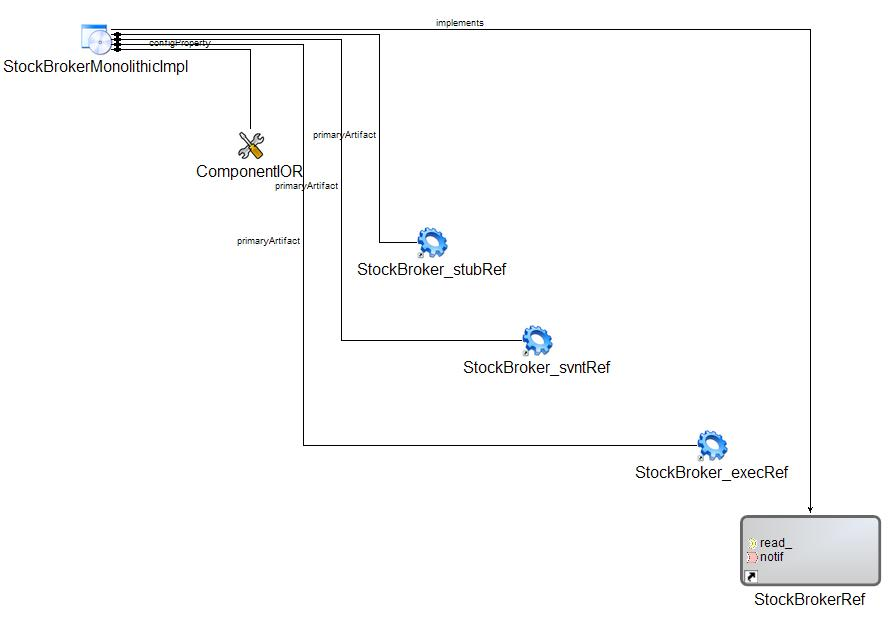
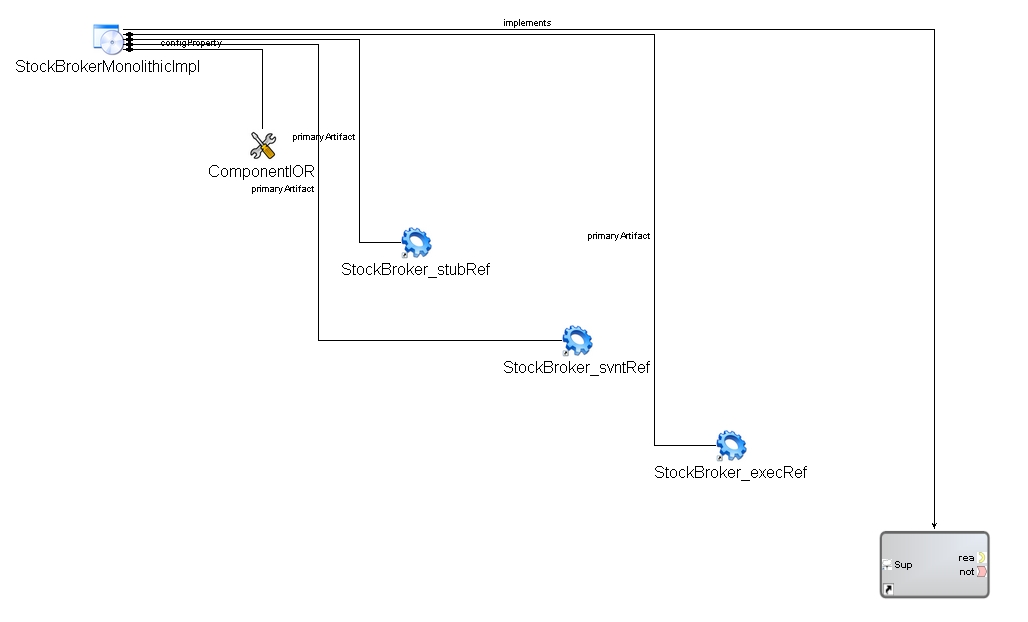
Thu Jun 18 06:48:05 UTC 2009  Marcel Smit  <msmit@remedy.nl>
* docs/tutorials/Quoter/Simple/03.html:

          Updated to meet the current status of CIAO/DAnCE.

        * docs/tutorials/Quoter/Simple/images/fig2.jpg:
        * docs/tutorials/Quoter/Simple/images/fig3.jpg:
        * docs/tutorials/Quoter/Simple/images/fig5.jpg:
        * docs/tutorials/Quoter/Simple/images/fig6.jpg:
        * docs/tutorials/Quoter/Simple/images/fig7.jpg:
        * docs/tutorials/Quoter/Simple/images/fig8.jpg:
        * docs/tutorials/Quoter/Simple/images/fig9.jpg:

          Updated to meet the current status of GME/COSMIC

diff --git a/branches/dds_ports/modules/CIAO/docs/tutorials/Quoter/Simple/03.html b/branches/dds_ports/modules/CIAO/docs/tutorials/Quoter/Simple/03.html
@@ -99,29 +99,29 @@ div.Section1 {
       .NET tools so that <i>idl_to_picml</i> works properly.<br>
       in my machine, VCVARS32.bat is in C:\Program Files\Microsoft Visual Studio .NET
       2003\Vc7\bin
-    <li style='COLOR:black;'> In the same command prompt, change directory to <code> <span style='FONT-SIZE:10pt'>MyQuoter\</span></code>, and type the
+    <li style='COLOR:black;'> In the same command prompt, change directory to <code> <span style='FONT-SIZE:10pt'>Quoter\</span></code>, and type the
       following command:<br>
-      &nbsp;&nbsp; &gt; <kbd> <span style='FONT-SIZE:10pt'> idl_to_picml -x MyQuoter -r .&nbsp;</span></kbd><br>
-      <em>idl_to_picml</em> will parse your IDL files and generated a <code> <span style='FONT-SIZE:10pt'>MyQuoter.xme</span></code> file in the <code> <span style='FONT-SIZE:10pt'>MyQuoter</span></code> directory. Note that if
+      &nbsp;&nbsp; &gt; <kbd> <span style='FONT-SIZE:10pt'> idl_to_picml -x Quoter -r .&nbsp;</span></kbd><br>
+      <em>idl_to_picml</em> will parse your IDL files and generated a <code> <span style='FONT-SIZE:10pt'>Quoter.xme</span></code> file in the <code> <span style='FONT-SIZE:10pt'>Quoter</span></code> directory. Note that if
       -x option is not used, the default xme file name will be <code> <span style='FONT-SIZE:10pt'>PICML_default_xme_file.xme.</span></code><br>
     <LI style="COLOR: black;    "> Start GME, select <strong>File-&gt;Import xml..</strong>, and choose the xme
       file just generated. You should be able to see an imported PICML model similar
       to the one shown in Figure 2. </LI>
   </ol>
-  <p align="center" style='TEXT-ALIGN:center'><span style='COLOR:black'><img border="0" width="960" height="719" id="_x0000_i1027" src="images/fig2.jpg"><br>
+  <p align="center" style='TEXT-ALIGN:center'><span style='COLOR:black'><img border="0" id="_x0000_i1027" src="images/fig2.jpg"><br>
     <br>
     Figure 2</span></p>
   <p><span style='COLOR:black'>&nbsp; In the Browser of the generated model, the <em>PredefinedTypes</em> folder contains a bunch of atomic datatype elements that will be referenced by
     other modeling parts later. You don't have to worry about them for now. The
     models in <em>InterfaceDefinitions</em> folder are the PICML representations
-    of the IDL files you just imported. Double-click to open <em>Broker</em>, it
+    of the IDL files you just imported. Double-click to open <em>StockBroker</em>, it
     will show you a white, document-like entity which represents a
     &lt;&lt;FileRef&gt;&gt; instance and a yellow box-shaped entity representing a
     &lt;&lt;Package&gt;&gt; instance. Their equivalent representations in IDL files
     are "#include" and "module" respectively. Figure 3 gives
     you a clear view of GME representation of all the 3 idl files created. We will
     cover the other folders in the next section.</span></p>
-  <p align="center" style='MARGIN-BOTTOM:12pt;TEXT-ALIGN:center'><span style='COLOR:black'><img border="0" width="218" height="364" id="_x0000_i1028" src="images/fig3.jpg"><br>
+  <p align="center" style='MARGIN-BOTTOM:12pt;TEXT-ALIGN:center'><span style='COLOR:black'><img border="1" id="_x0000_i1028" src="images/fig3.jpg"><br>
     <br>
     Figure 3</span></p>
   <p style='MARGIN-BOTTOM:12pt'><span style='COLOR:black'>Now
@@ -177,8 +177,8 @@ div.Section1 {
   <p><span style='COLOR:black'>This folder contains implementation artifacts
     associated with components. <em>idl_to_picml</em> has created these artifacts
     for us, with their dependency relationships correctly captured. Figure 4 shows
-    the Implementation Artifacts for <em>Broker</em>.</span></p>
-  <p align="center" style='MARGIN-BOTTOM:12pt;TEXT-ALIGN:center'><span style='COLOR:black'><img border="0" width="883" height="528" id="_x0000_i1031" src="images/fig4.jpg"><br>
+    the Implementation Artifacts for <em>StockBroker</em>.</span></p>
+  <p align="center" style='MARGIN-BOTTOM:12pt;TEXT-ALIGN:center'><span style='COLOR:black'><img border="0" id="_x0000_i1031" src="images/fig4.jpg"><br>
     Figure 4.</span></p>
   <div align="center" style='TEXT-ALIGN:center'><a name="1"></a><span style='COLOR:black'>
     <hr size="2" width="100%" align="center">
@@ -188,9 +188,9 @@ div.Section1 {
     of component interfaces. In the Quoter example, we will have two monolithic
     component implementations - named <em>StockDistributorImplementation</em> and <em>StockBrokerImplementation</em> - and an assembly component implementation named <em>StockQuoter</em>, which is
     an assembly of <em>StockDistributorImplementation</em> and <em>StockBrokerImplementaion</em>. <em>idl_to_picml</em> has created the monolithic component implementations for
-    us, as shown in figure 5 for example, but we have to specify the connections
-    between them in order to construct a Quoter system.</span></p>
-  <p align="center" style='TEXT-ALIGN:center'><span style='COLOR:black'><img border="0" width="894" height="617" id="_x0000_i1033" src="images/fig5.jpg"><br>
+    us, as shown in figure 5 for example, but we have to specify the connections between them in order to construct a Quoter system. Therefore we need to create the mentioned
+    StockQuoter component assemby</span></p>
+  <p align="center" style='TEXT-ALIGN:center'><span style='COLOR:black'><img border="0" id="_x0000_i1033" src="images/fig5.jpg"><br>
     Figure 5</span></p>
   <p><span style='COLOR:black'>Assembly components provide a boundary for the composition
     of monolithic components and even other assemblies. Assembly components do not
@@ -206,96 +206,101 @@ COLOR:black'>MonolithicImplementation</span></code><span style='COLOR:black'>.
     <li style='COLOR:black;'> Right click the <em>ComponentImplementations</em> folder, choose <strong>Insert
       Model-&gt;ComponentImplementationContainer</strong>, rename it as
       "StockQuoterImplementation" in the Attribute Panel. Double click to open it.
+    </li>
     <li style='COLOR:black;'> From the Part Browser, drag a &lt;&lt;ComponentAssembly&gt;&gt; to the modeling
       window, name it "StockQuoter". Double click to open it.
+    </li>
     <li style='COLOR:black;'> Now we will create two instances for interfaces <em>StockBroker</em> and <em>StockDistributor</em>.
       To do that, expand the folder <em> <span style="FONT-SIZE:10pt;
-     FONT-FAMILY:'Courier New'">InterfaceDefinitions</span></em>, then expand the <em> <span style="FONT-SIZE:10pt;FONT-FAMILY:'Courier New'">InterfaceDefinitions/</span></em> <em>Broker</em>, then <em> <span style="FONT-SIZE:10pt;FONT-FAMILY:'Courier New'">InterfaceDefinitions/</span></em> <em>Broker/ Stock</em> until the interface definition of <em>StockBroker</em> shows.
-      While expanding the tree, always keep the "StockQuoter"
-      &lt;&lt;ComponentAssembly&gt;&gt; window open. Then drag <code> <span style='FONT-SIZE:10pt'>MyQuoter/InterfaceDefinitions/Broker/Stock/StockBroker</span></code> in the browser to the "StockQuoter" &lt;&lt;ComponentAssembly&gt;&gt; window
-      while pressing ALT key. Repeat the same steps for <code> <span style='FONT-SIZE:10pt'>MyQuoter/InterfaceDefinitions/Distributor/Stock/StockDistributor</span></code>,
+     FONT-FAMILY:'Courier New'">InterfaceDefinitions</span></em>, then expand the
+     <em><span style="FONT-SIZE:10pt;FONT-FAMILY:'Courier New'">InterfaceDefinitions/StockBroker</span></em>, then
+     <em><span style="FONT-SIZE:10pt;FONT-FAMILY:'Courier New'">InterfaceDefinitions/StockBroker/Stock</span></em> until the interface definition of <em>StockBroker</em> shows.
+      While expanding the tree, always keep the "StockQuoter" &lt;&lt;ComponentAssembly&gt;&gt; window open.
+      Then drag <code> <span style='FONT-SIZE:10pt'>Quoter/InterfaceDefinitions/Broker/Stock/StockBroker</span></code> in the browser to the "StockQuoter" &lt;&lt;ComponentAssembly&gt;&gt; window
+      while pressing ALT key. Repeat the same steps for <code> <span style='FONT-SIZE:10pt'>Quoter/InterfaceDefinitions/Distributor/Stock/StockDistributor</span></code>,
       and you will see two instances of component interfaces have been created as
-      shown in Figure 6 (the black line in the figure only indicates .mapping)</li>
+      shown in Figure 6 (the black line in the figure only indicates .mapping)
+      </li>
   </ol>
-  <p align="center" style='TEXT-ALIGN:center'><span style='COLOR:black'><img border="0" width="1076" height="696" id="_x0000_i1034" src="images/fig6.jpg"><br>
+  <p align="center" style='TEXT-ALIGN:center'><span style='COLOR:black'><img border="0" id="_x0000_i1034" src="images/fig6.jpg"><br>
     <br>
     Figure 6</span></p>
   <ol start="4" type="1">
-    <li style='COLOR:black;'> Create an &lt;&lt;PublishConnector&gt;&gt;.
+    <li style='COLOR:black;'> Create an &lt;&lt;PublishConnector&gt;&gt; by dragging it from the "Part browser" onto the "StockQuoter" window.
+    </li>
     <li style='COLOR:black;'> Now assemble the components together according to <a href="images/fig1.jpg">Figure
-      1</a>(make sure you change to connect mode <img border="0" width="32" height="32" id="_x0000_i1035" src="Icons/AddConnMode.gif">)
-      and the resulting assembly model should look like Figure 7. Note that to create
-      connections between StockDistributor.notify_out and StockBroker.notify_in, you
-      will need the intermediate connector &lt;&lt;PublishConnector&gt;&gt;.</li>
+      1</a> (make sure you change to connect mode <img border="0" width="32" height="32" id="_x0000_i1035" src="Icons/AddConnMode.gif" />)
+      and the resulting assembly model should look like Figure 7. Note that to create connections between StockDistributor.notify_out and StockBroker.notify_in,
+      you will need the intermediate connector &lt;&lt;PublishConnector&gt;&gt;.
+    </li>
   </ol>
-  <p align="center" style='TEXT-ALIGN:center'><span style='COLOR:black'><img border="0" width="1076" height="445" id="_x0000_i1036" src="images/fig7.jpg">
-    <!-- hhmts end -->
-    &gt;<br>
-    <br>
+  <p align="center" style='TEXT-ALIGN:center'><span style='COLOR:black'>
+    <img border="0" id="_x0000_i1036" src="images/fig7.jpg" />
+    <br><br>
     Figure 7</span></p>
+
   <div align="center" style='TEXT-ALIGN:center'><span style='COLOR:black'>
     <hr size="2" width="100%" align="center">
     </span></div>
   <h3><a name="3"></a><span style='COLOR:black'>ComponentPackage</span></h3>
-  <p><span style='COLOR:black'>This folder contains deployable
-    component packages. Every instance in an assembly should have a corresponding
-    monolithic implementation and packaged in a ComponentPackagebe To create a
-    package for <em>StockBroker</em>.instance</span></p>
+  <p><span style='COLOR:black'>This folder contains deployable component packages. Every instance in an assembly should have a corresponding
+    monolithic implementation and packaged in a ComponentPackage. To create a package for <em>StockBroker</em>.instance</span></p>
   <ol start="1" type="1">
     <li style='COLOR:black;'> Right click folder <em>ComponentPackage</em>s , insert a
-      &lt;&lt;PackageContainer&gt;&gt;, name it "Broker"; Double click to open it.
+      &lt;&lt;PackageContainer&gt;&gt;, name it "Broker". Double click to open it.
     <li style='COLOR:black;'> From the PartBrowser, add the following:
       <ul type="circle">
         <li style='COLOR:black;'> a &lt;&lt;ComponentPackage&gt;&gt; named "Broker";
-        <li style='COLOR:black;'> a &lt;&lt;ComponentImplementationReference&gt;&gt; named "Broker";
-        <li style='COLOR:black;'> a &lt;&lt;ComponentRef&gt;&gt; named "Broker";</li>
+        <li style='COLOR:black;'> a &lt;&lt;ComponentImplementationReference&gt;&gt; named "ComponentImplBrokerRef";
+        <li style='COLOR:black;'> a &lt;&lt;ComponentRef&gt;&gt; named "ComponentBrokerRef";</li>
       </ul>
-    <li style='COLOR:black;'> Refer the &lt;&lt;ComponentImplementationReference&gt;&gt; <em>Broker</em> to <code> <span style='FONT-SIZE:10pt'>MyQuoter/ComponentImplementations/StockBroker</span></code>Implementation/StockBrokerMonolithicImpl.
-      Refer the &lt;&lt;ComponentRef&gt;&gt; <em>Broker</em> to <code> <span style='FONT-SIZE:10pt'>MyQuoter/InterfaceDefinitions/Broker/Stock/StockBroker</span></code>.
-      To create a reference in GME, simply drag the tree node in the Browser "into"
-      the reference model. For example, you should drag the tree node <code> <span style='FONT-SIZE:10pt'>MyQuoter/ComponentImplementations/StockBroker</span></code>Implementation/StockBrokerMonolithicImpl
-      into &lt;&lt;ComponentImplementationReference&gt;&gt; <em>Broker.</em> Check
-      GME manual(tutorials) for more information.
-    <li style='COLOR:black;'> Switch to Connect Mode and create two connections according to the following
-      relationship.
+    <li style='COLOR:black;'>Now we need to create references for "ComponentImplBrokerRef" and "ComponentBrokerRef".
+      To create a reference in GME, simply drag the tree node in the Browser "into" the reference model.<br/>
+      We need to refer &lt;&lt;ComponentImplementationReference&gt;&gt; "ComponentImplBrokerRef" to
+      <code><span style='FONT-SIZE:10pt'>Quoter/ComponentImplementations/StockBrokerImplementation/StockBrokerMonolithicImpl</span></code>
+      and &lt;&lt;ComponentRef&gt;&gt; "ComponentBrokerRef" to <code><span style='FONT-SIZE:10pt'>Quoter/InterfaceDefinitions/StockBroker/Stock/StockBroker</span></code>.<br/>
+      For example, you should drag the tree node <code><span style='FONT-SIZE:10pt'>Quoter/ComponentImplementations/StockBroker</span></code>Implementation/StockBrokerMonolithicImpl
+      into &lt;&lt;ComponentImplementationReference&gt;&gt; "ComponentImplBrokerRef".<br/> Check GME manual(tutorials) for more information.
+    <li style='COLOR:black;'> Switch to Connect Mode and create two connections according to the following relationship.
       <ul type="circle">
-        <li style='COLOR:black;'> &lt;&lt;ComponentImplementationReference&gt;&gt; <em>Broker</em> implements
-          &lt;&lt;ComponentPackage&gt;&gt; <em>Broker</em>;
-        <li style='COLOR:black;'> &lt;&lt;ComponentPackage&gt;&gt; <em>Broker</em> realizes
-          &lt;&lt;ComponentRef&gt;&gt; <em>Broker</em>.</li>
+        <li style='COLOR:black;'> &lt;&lt;ComponentImplementationReference&gt;&gt; "ComponentImplBrokerRef" implements
+          &lt;&lt;ComponentPackage&gt;&gt; "Broker"
+        </li>
+        <li style='COLOR:black;'> &lt;&lt;ComponentPackage&gt;&gt; "Broker" realizes
+          &lt;&lt;ComponentRef&gt;&gt; "ComponentBrokerRef".
+        </li>
       </ul>
+      <br/>
+      <br/>
+      The model you built should resemble Figure 8.
+      <br />
+      <br />
+      <p align="center" style='MARGIN-BOTTOM:12pt;MARGIN-LEFT:0.5in;TEXT-ALIGN:center;'><span style='COLOR:black'><img border="0" id="_x0000_i1038" src="images/fig8.jpg">
+        <br><br>
+        Figure 8</span>
+      </p>
+      <p>Now create a StockDistributor following the same steps.</p>
     </li>
+
+    <li style='LIST-STYLE-POSITION:outside;COLOR:black;'>
+      We will also need to create a component package for the assembly component StockQuoter. Remember assembly component is a virtual component, it does not "realize" a
+      certain interface, so different from the Broker and Distributor packages, the StockQuoter does not need a &lt;&lt;ComponentRef&gt;&gt;. To create this model:<br/>
+
+      <ol>
+        <li>Insert a &lt;&lt;ComponentPackage&gt;&gt; named "StockQuoter"
+        </li>
+        <li>Add a &lt;&lt;ComponentImplementationReference&gt;&gt; named "ComponentImplStockQuoterRef", refer it to
+          <code><span style='FONT-SIZE:10pt'>Quoter/ComponentImplementations/StockQuoterImplementation/StockQuoter</span></code>
+        </li>
+        <li>Switch to connect mode and connect &lt;&lt;ComponentImplementationReference&gt;&gt; "ComponentImplStockQuoterRef" with
+          &lt;&lt;ComponentPackage&gt;&gt; "StockQuoter", as in Figure 9.
+          <p align="center" style='MARGIN-BOTTOM:12pt;TEXT-ALIGN:center'><span style='COLOR:black'><img border="0" id="_x0000_i1039" src="images/fig9.jpg">
+            <br><br>
+            Figure 9</span>
+          </p>
+        </li>
+      </ol>
   </ol>
-  <p style='MARGIN-BOTTOM:12pt;MARGIN-LEFT:0.5in;'><span style='COLOR:black'><br>
-    <br>
-    &nbsp;&nbsp;&nbsp;&nbsp; The model you built should resemble Figure 8.</span></p>
-  <p align="center" style='MARGIN-BOTTOM:12pt;MARGIN-LEFT:0.5in;TEXT-ALIGN:center;'><span style='COLOR:black'><img border="0" width="1076" height="445" id="_x0000_i1038" src="images/fig8.jpg">
-    <!-- hhmts start -->
-    &gt;<br>
-    <br>
-    Figure 8</span></p>
-  <p style='MARGIN-LEFT:0.5in;'><span style='COLOR:black'>Now create a
-    ComponentPackage/StockDistributor following the same steps. </span></p>
-  <ol start="5" type="1">
-    <li style='LIST-STYLE-POSITION:outside;COLOR:black;'> <br>
-      We will also need to create a package for the assembly component StockQuoter.
-      Remember assembly component is a virtual component, it does not "realize" a
-      certain interface, so different from the Broker and Distributor packages, the
-      StockQuoter does not need a &lt;&lt;ComponentRef&gt;&gt;. To create this model: </li>
-  </ol>
-  <p style='MARGIN-LEFT:0.5in;TEXT-INDENT:-0.25in;'><span style="FONT-SIZE:10pt;COLOR:black;FONT-FAMILY:'Courier New';'Courier New';">1.<span style="FONT:7pt 'Times New Roman'">&nbsp;&nbsp;&nbsp; </span> </span><span style='COLOR:black'>Insert a &lt;&lt;ComponentPackage&gt;&gt; named
-    "StockQuoter"</span></p>
-  <p style='MARGIN-LEFT:1in;TEXT-INDENT:-0.25in;'><span style="FONT-SIZE:10pt;COLOR:black;FONT-FAMILY:'Courier New';'Courier New';">2.<span style="FONT:7pt 'Times New Roman'">&nbsp;&nbsp;&nbsp; </span> </span><span style='COLOR:black'>Add a &lt;&lt;ComponentImplementationReference&gt;&gt;
-    named "StockQuoter", refer it to MyQuoter</span><code><span style='FONT-SIZE:10pt;COLOR:black'>/ComponentImplementations/StockQuoter/StockQuoter</span></code><span style='COLOR:black'> </span></p>
-  <p style='MARGIN-LEFT:1in;TEXT-INDENT:-0.25in;'><span style="FONT-SIZE:10pt;COLOR:black;FONT-FAMILY:'Courier New';'Courier New';">3.<span style="FONT:7pt 'Times New Roman'">&nbsp;&nbsp;&nbsp; </span> </span><span style='COLOR:black'>Switch to connect mode and connect
-    &lt;&lt;ComponentImplementationReference&gt;&gt; StockQuoter with
-    &lt;&lt;ComponentPackage&gt;&gt; StockQuoter, as in Figure 9.</span></p>
-  <p align="center" style='MARGIN-BOTTOM:12pt;TEXT-ALIGN:center'><span style='COLOR:black'><img border="0" width="1076" height="445" id="_x0000_i1039" src="images/fig9.jpg">
-    <!-- Created: Sat Nov 27 15:25:06 CST 1999 -->
-    <!-- hhmts start -->
-    &gt;<br>
-    <br>
-    Figure 9</span></p>
   <div align="center" style='TEXT-ALIGN:center'><span style='COLOR:black'>
     <hr size="2" width="100%" align="center">
     </span></div>
@@ -304,14 +309,14 @@ COLOR:black'>MonolithicImplementation</span></code><span style='COLOR:black'>.
     model capturing specific configuration of Component packages.</span></p>
   <ol start="1" type="1">
     <li style='COLOR:black;'> In the folder <em>PackageConfiguratio</em>n, and create a
-      &lt;&lt;PackageConfigurationContainer&gt;&gt;, name it "Default", click to open
+      &lt;&lt;PackageConfigurationContainer&gt;&gt;, name it "Default", double click to open
       it.
     <li style='COLOR:black;'> Add a &lt;&lt;PackageConfiguration&gt;&gt; named "default" and a
       &lt;&lt;ComponentPackageReference&gt;&gt;, name it "StockQuoter", connect
       "Default" to "StockQuoter"
     <li style='COLOR:black;'> Refer &lt;&lt;ComponentPackageReference&gt;&gt; StockQuoter to
-      &lt;&lt;ComponentPackage&gt;&gt; <code> <span style='FONT-SIZE:10pt'>MyQuoter/ComponentPackage/StockQuoter/StockQuoter</span></code><span style="FONT-SIZE:10pt;FONT-FAMILY:'Courier New'"><br>
-      <code>(Not &lt;&lt;ComponentImplementationReference&gt;&gt;</code></span> <code> <span style='FONT-SIZE:10pt'>MyQuoter/ComponentPackage/StockQuoter/StockQuoter!)&nbsp;</span></code></li>
+      &lt;&lt;ComponentPackage&gt;&gt; <code> <span style='FONT-SIZE:10pt'>Quoter/ComponentPackage/StockQuoter/StockQuoter</span></code><span style="FONT-SIZE:10pt;FONT-FAMILY:'Courier New'"><br>
+      <code>(Not &lt;&lt;ComponentImplementationReference&gt;&gt;</code></span> <code> <span style='FONT-SIZE:10pt'>Quoter/ComponentPackage/StockQuoter/ComponentImplStockQuoterRef!)&nbsp;</span></code></li>
   </ol>
   <div align="center" style='TEXT-ALIGN:center'><span style='COLOR:black'>
     <hr size="2" width="100%" align="center">
@@ -321,13 +326,13 @@ COLOR:black'>MonolithicImplementation</span></code><span style='COLOR:black'>.
     capturing information about the top-level element that will be fed to the
     application.</span></p>
   <ol start="1" type="1">
-    <li style='COLOR:black;'> In the folder <em>ToplevelPackage</em>, and create a
-      &lt;&lt;ToplevelPackageContainer&gt;&gt;, name it "Default", double click to
+    <li style='COLOR:black;'> In the folder <em>ToplevelPackages</em>, create a
+      &lt;&lt;ToplevelPackageContainer&gt;&gt; and name it "Default". Double click to
       open it.
     <li style='COLOR:black;'> Add a &lt;&lt;ToplevelPackage&gt;&gt; named "ToplevelPackage" and a
       &lt;&lt;PackageConfigurationReference&gt;&gt;, name it "Default", connect
       "ToplevelPackage" to "Default"
-    <li style='COLOR:black;'> Refer "Default" to My<code><span style='FONT-SIZE:10pt'>Quoter/PackageConfiguration/Default/Default</span></code></li>
+    <li style='COLOR:black;'> Refer "Default" to <code><span style='FONT-SIZE:10pt'>Quoter/PackageConfiguration/Default/Default</span></code></li>
   </ol>
   <div align="center" style='TEXT-ALIGN:center'><span style='COLOR:black'>
     <hr size="2" width="100%" align="center">
@@ -341,7 +346,7 @@ COLOR:black'>MonolithicImplementation</span></code><span style='COLOR:black'>.
   <ol start="1" type="1">
     <li style='COLOR:black;'> In the folder <i>Targets</i>, insert a new &lt;&lt;Domain&gt;&gt; named
       "Domain"; double click to open it.
-    <li style='COLOR:black;'> From the Part Browser, add two &lt;&lt;Node&gt;&gt; named "Broker" and
+    <li style='COLOR:black;'> From the Part Browser, add two &lt;&lt;Node&gt;&gt;s, named "Broker" and
       "Distributor" respectively.</li>
   </ol>
   <p><span style='COLOR:black'><br>
@@ -354,21 +359,21 @@ COLOR:black'>MonolithicImplementation</span></code><span style='COLOR:black'>.
     that captures information about the assignment of component to nodes.</span></p>
   <ol start="1" type="1">
     <li style='COLOR:black;'> In the folder <em>DeploymentPlan</em>, insert a model
-      &lt;&lt;DeploymentPlan&gt;&gt;; name it "Plan", click to open it
+      &lt;&lt;DeploymentPlan&gt;&gt;; name it "Plan". Double click to open it.
     <li style='COLOR:black;'> From the PartBrowser, add the following:
       <ul type="circle">
-        <li style='COLOR:black;'> Two &lt;&lt;CollocationGroup&gt;&gt;
         <li style='COLOR:black;'> Two &lt;&lt;NodeReference&gt;&gt; named "Node_Broker" and "Node_Distributor"
-          respectively, refering to <code> <span style='FONT-SIZE:10pt'>MyQuoter/Targets/Domain/Broker</span></code> and <code> <span style='FONT-SIZE:10pt'>MyQuoter/Targets/Domain/Distributor</span></code> respectively
+          respectively, refering to <code> <span style='FONT-SIZE:10pt'>Quoter/Targets/Domain/Broker</span></code> and
+          <code><span style='FONT-SIZE:10pt'>Quoter/Targets/Domain/Distributor</span></code> respectively.<br/>
+          A &lt;&lt;CollationGroup&gt;&gt;, named "DefaultGroup", is added automatically when adding a &lt;&lt;NodeReference&gt;&gt;.
+        </li>
         <li style='COLOR:black;'> Two &lt;&lt;ComponentRef&gt;&gt; named "StockBroker" and "StockDistributor"
-          respectively, refering to <code> <span style='FONT-SIZE:10pt'>MyQuoter/ComponentImplementations/StockQuoterImplementation/StockQuoter/StockBroker</span></code> and <code> <span style='FONT-SIZE:10pt'>MyQuoter/ComponentImplementations/StockQuoterImplementation/StockQuoter/StockDistributor</span></code> respectively. Note that the &lt;&lt;ComponentRef&gt;&gt; in DeploymentPlan is
-          not referring to the interface, but rather the actual instance of the
-          implementation.</li>
+          respectively, refering to <code> <span style='FONT-SIZE:10pt'>Quoter/ComponentImplementations/StockQuoterImplementation/StockQuoter/StockBroker</span></code>
+          and <code><span style='FONT-SIZE:10pt'>Quoter/ComponentImplementations/StockQuoterImplementation/StockQuoter/StockDistributor</span></code> respectively.<br/>
+          Note that the &lt;&lt;ComponentRef&gt;&gt; in DeploymentPlan is not referring to the interface, but rather the actual instance of the implementation.
+        </li>
       </ul>
-    <li style='MARGIN-BOTTOM:12pt;COLOR:black;'> Switch to Connect Mode, connect one &lt;&lt;CollocationGroup&gt;&gt; to
-      &lt;&lt;NodeReference&gt;&gt; <em>Node_Broker</em>, connect another
-      &lt;&lt;CollocationGroup&gt;&gt; to &lt;&lt;NodeReference&gt;&gt; <em>Node_Distributor</em>.
-      Now the model looks like the following.</li>
+    <p>The model should look like this:</p>
   </ol>
   <p align="center" style='MARGIN-BOTTOM:12pt;MARGIN-LEFT:0.5in;TEXT-ALIGN:center;'><span style='COLOR:black'><img border="0" width="1076" height="530" id="_x0000_i1044" src="images/fig10.jpg"><br>
     <br>
@@ -412,8 +417,8 @@ COLOR:black'>MonolithicImplementation</span></code><span style='COLOR:black'>.
   <p><span style='COLOR:black'>After we are done with the modeling, the
     Deploymentplan interpreter that comes along with PICML will help us
     to generate a Plan.cdp file. Please make sure you generate
-    this file to MyQuoter/descriptors. Note that to get the example working</span><span style="COLOR:black; FONT-FAMILY:'Courier New'">,</span><span style='COLOR:black'>a
-    Node Map file (NodeMap.dat) in MyQuoter/descriptors should be created to map logical nodes to NodeManager object
+    this file to Quoter/descriptors. Note that to get the example working</span><span style="COLOR:black; FONT-FAMILY:'Courier New'">,</span><span style='COLOR:black'>a
+    Node Map file (NodeMap.dat) in Quoter/descriptors should be created to map logical nodes to NodeManager object
     references,e.g:</span></p>
   <pre wrap=""><span style='COLOR:black'>DistributorNode corbaloc:iiop:localhost:30000/NodeManager</span></pre>
   <pre><span
